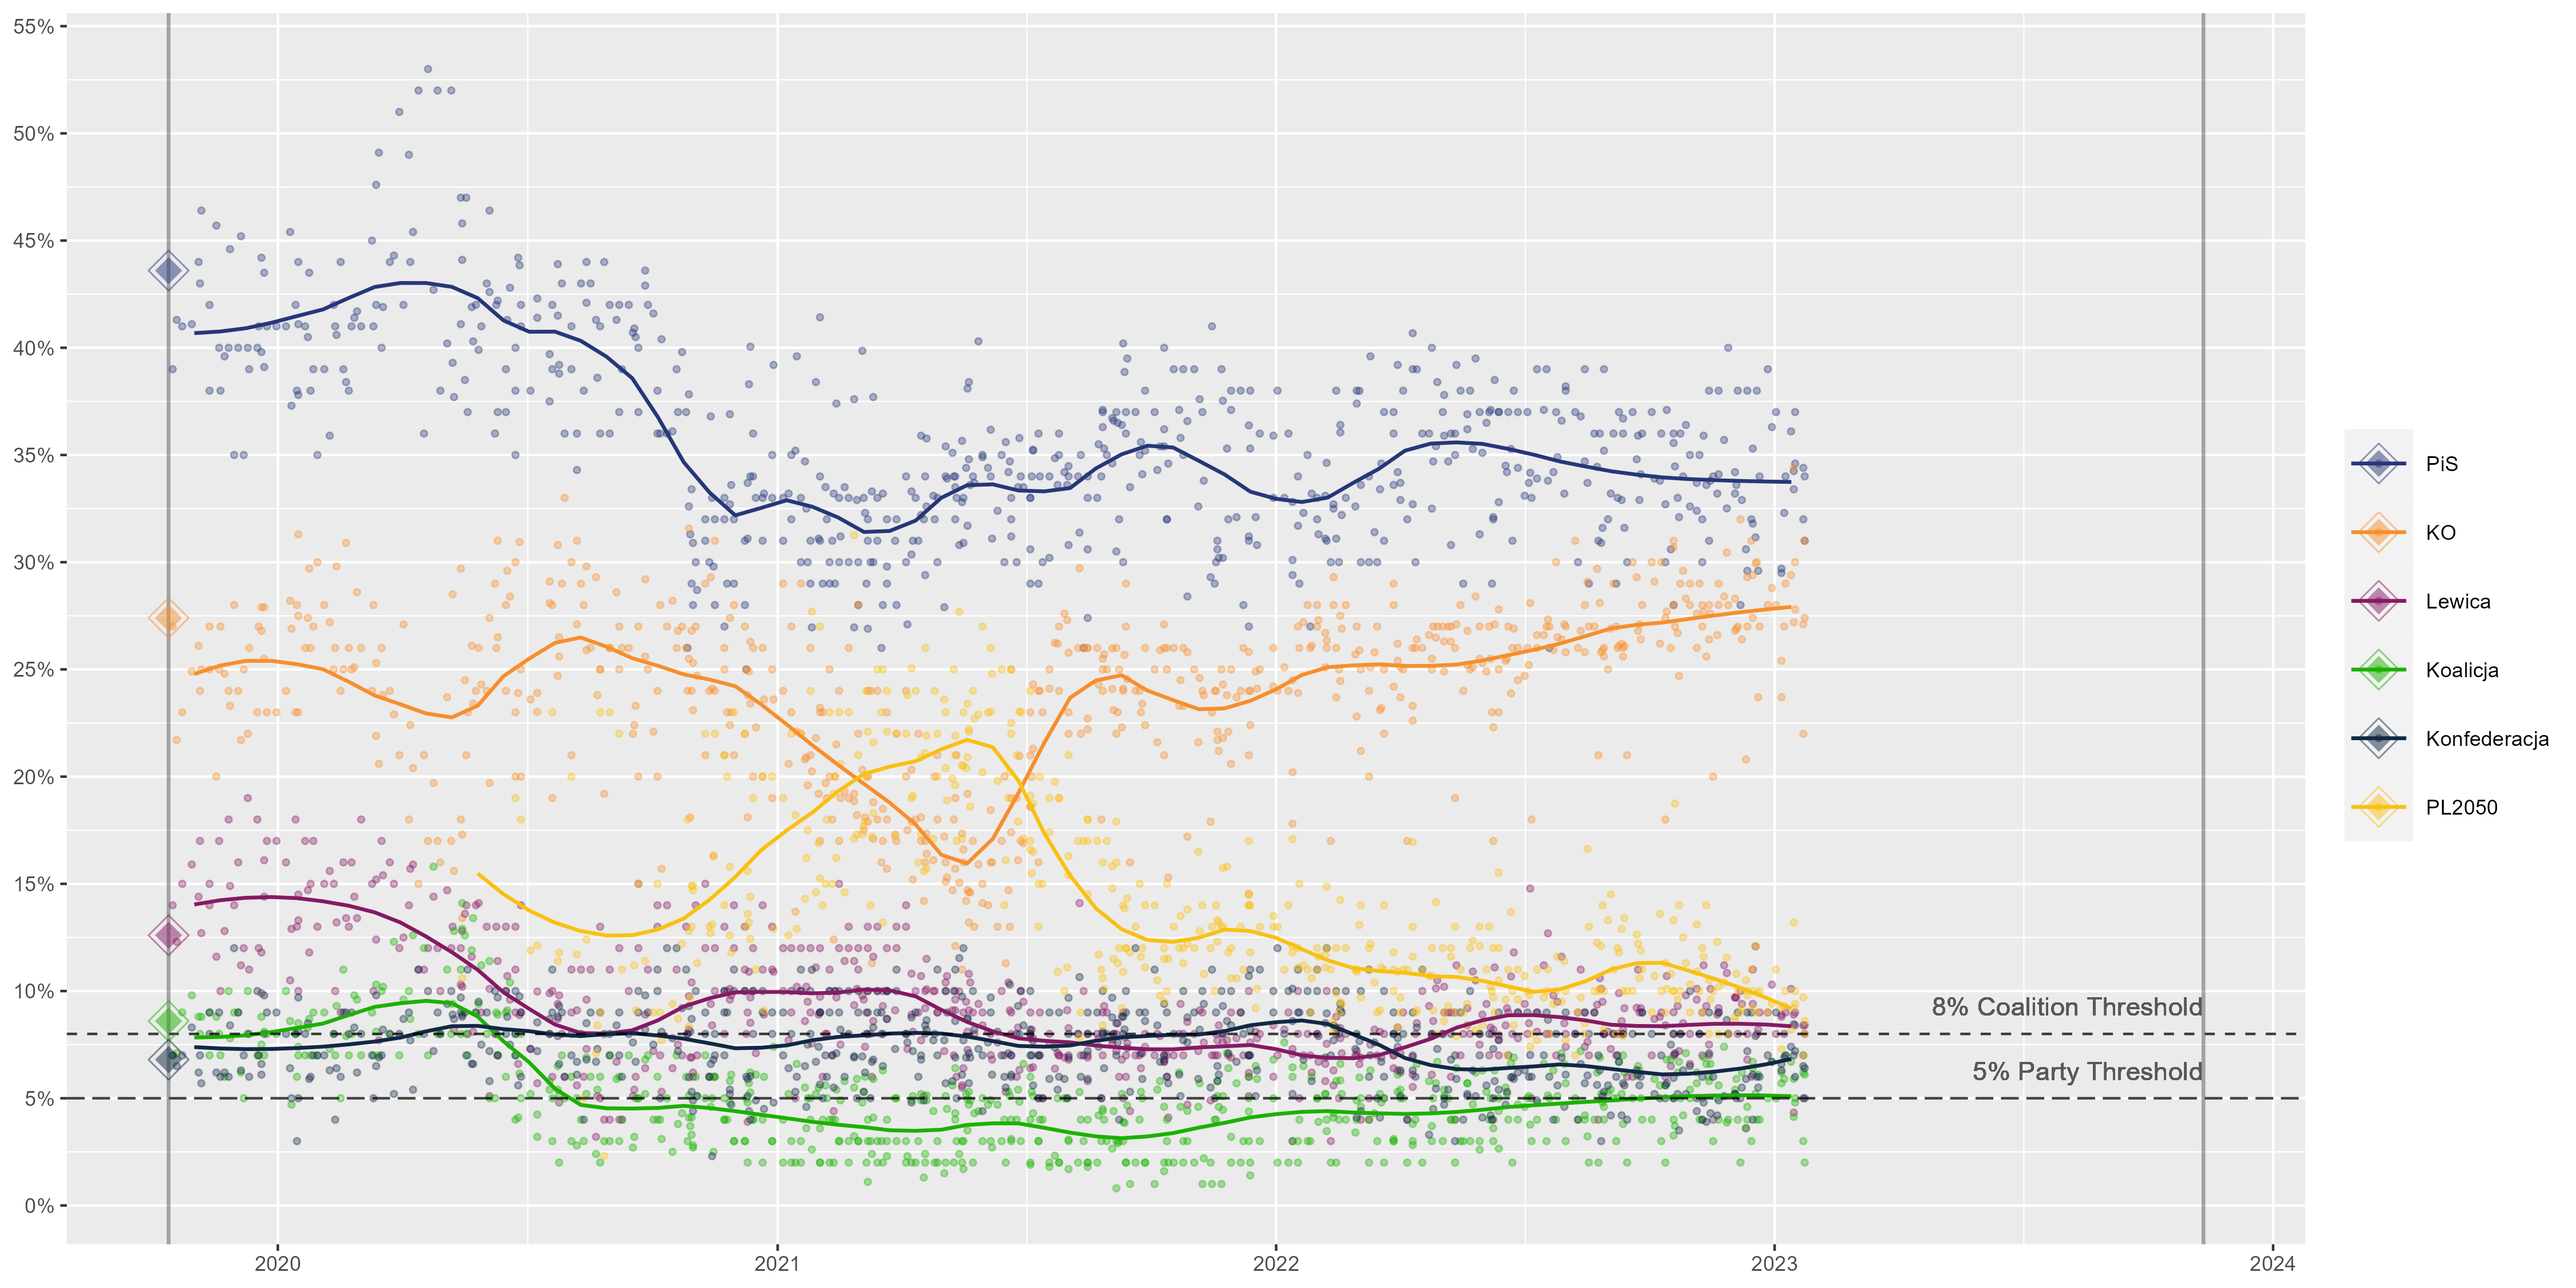
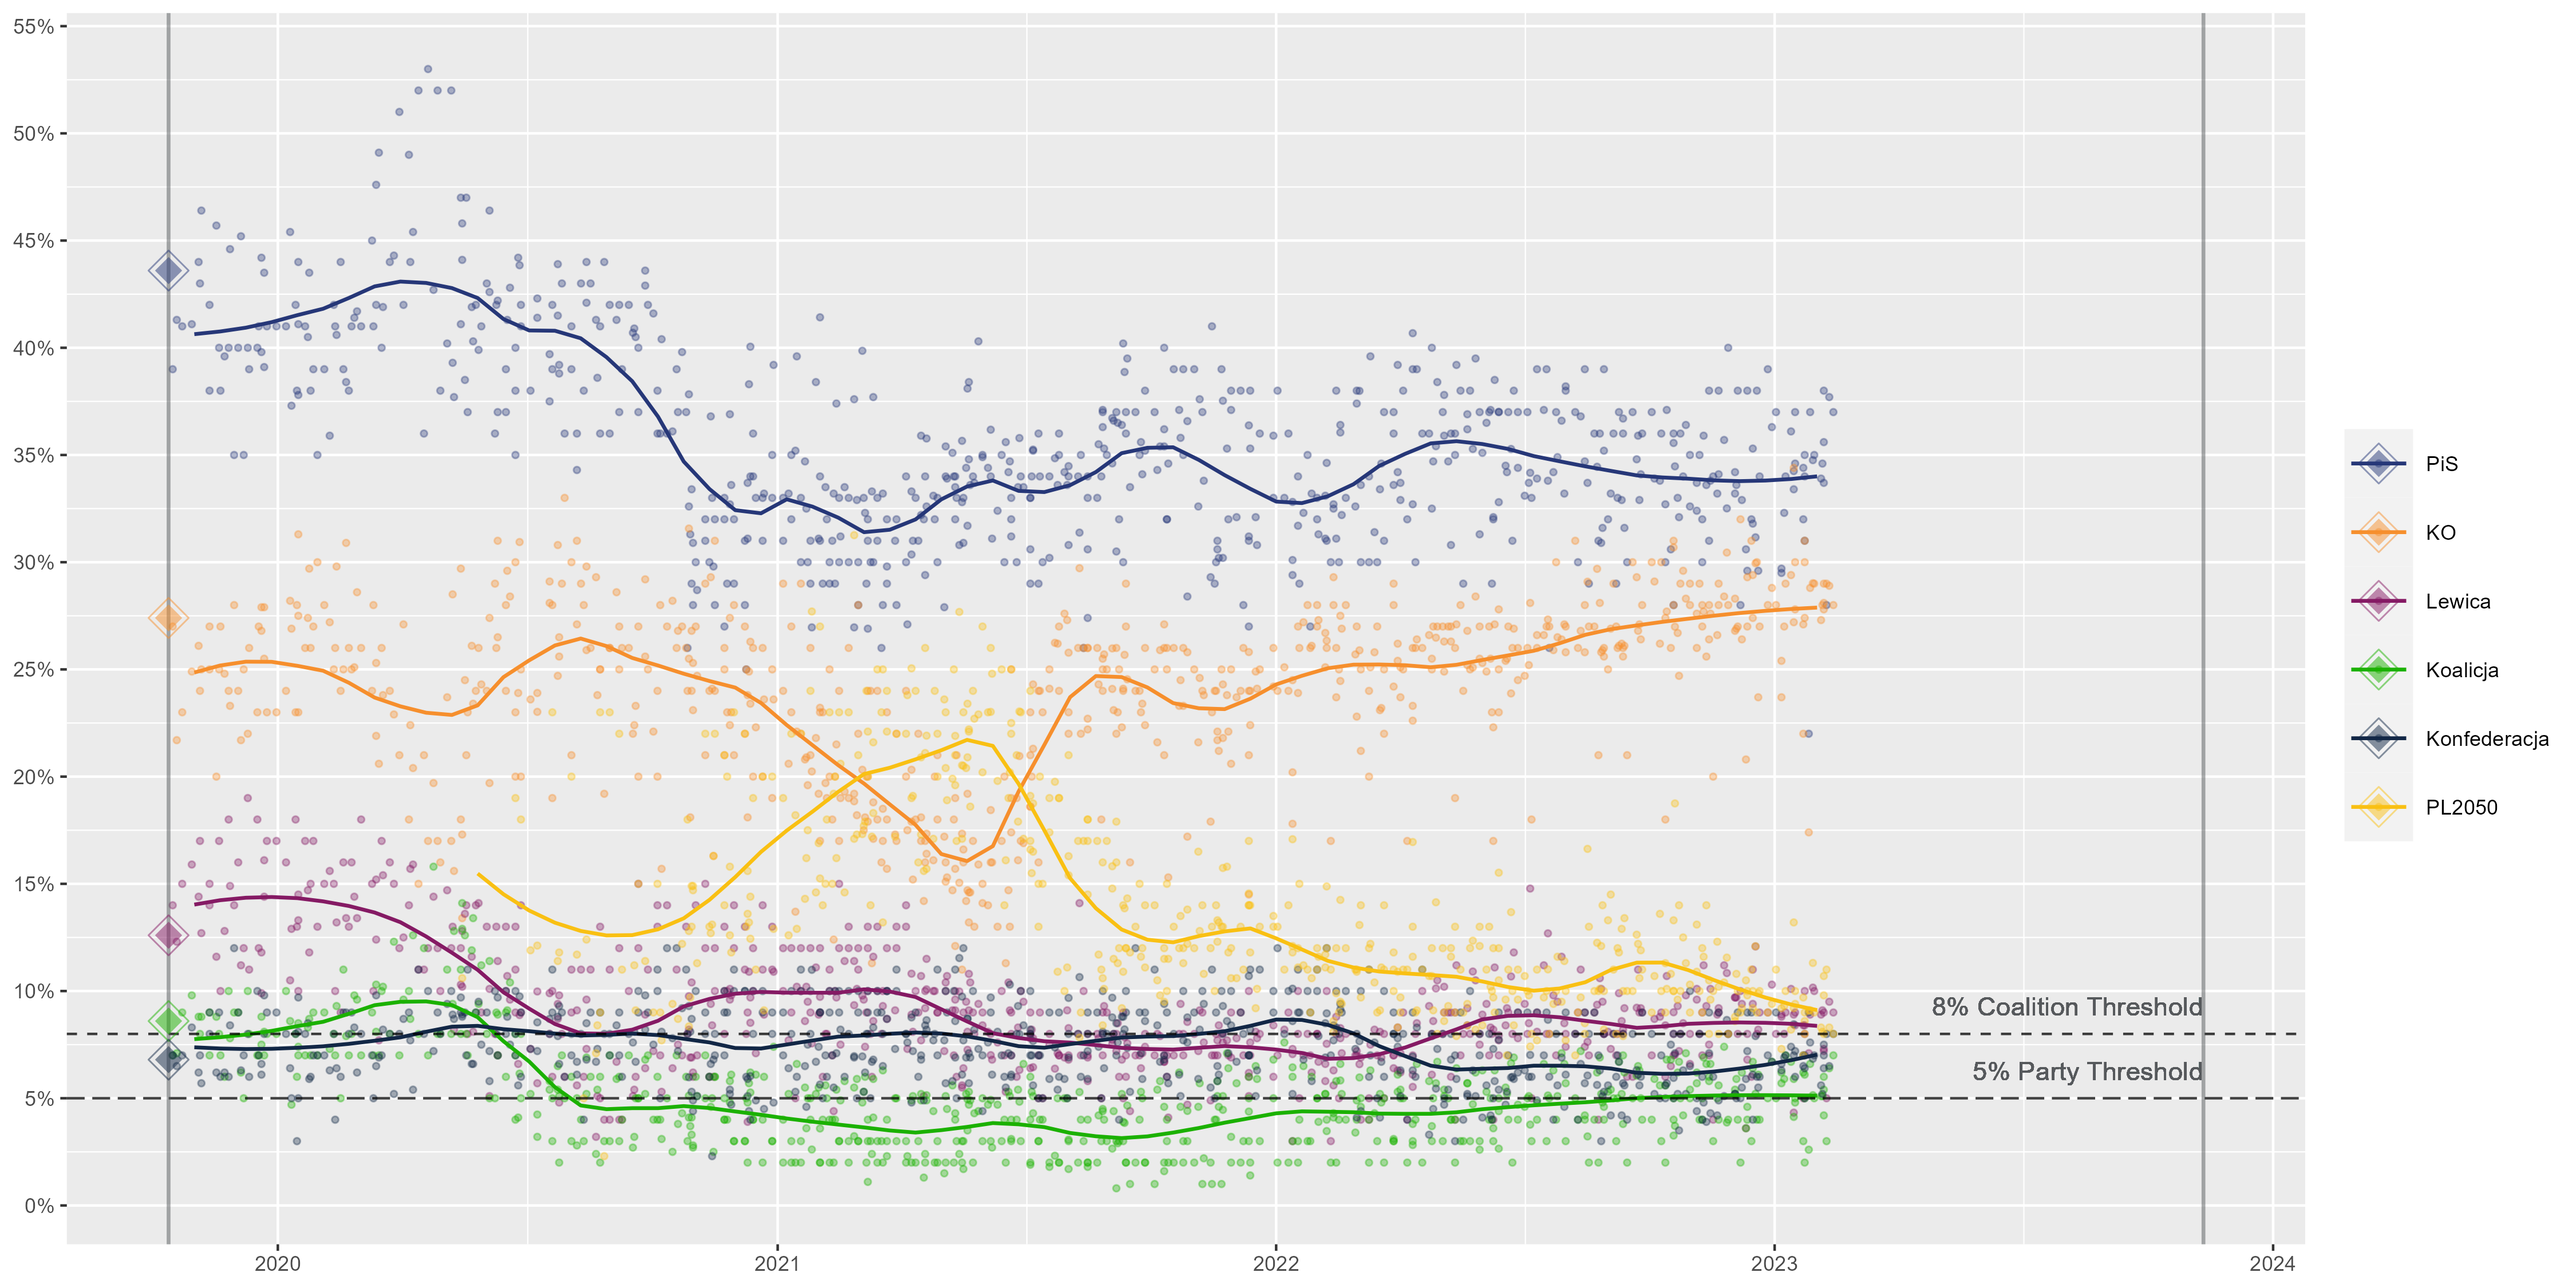
fixed again

diff --git a/Polish/Votes/data.py b/Polish/Votes/data.py
@@ -76,6 +76,9 @@ for z in parties:
   data21[z] = [x.replace('[u]','') for x in data21[z].astype(str)]
   data21[z] = [x.replace('[v]','') for x in data21[z].astype(str)]
   data21[z] = [x.replace('[w]','') for x in data21[z].astype(str)]
+  data21[z] = [x.replace('[j]','') for x in data21[z].astype(str)]
+  data21[z] = [x.replace('[n]','') for x in data21[z].astype(str)]
+  data21[z] = [x.replace('[s]','') for x in data21[z].astype(str)]
 
 
 # 2020
@@ -102,6 +105,7 @@ data20.Date = data20.Date.apply(lambda x: dateparser.parse(x))
 for z in parties:
   data20[z] = [x.replace('[ac]','') for x in data20[z].astype(str)]
   data20[z] = [x.replace('[ad]','') for x in data20[z].astype(str)]
+  data20[z] = [x.replace('[ae]','') for x in data20[z].astype(str)]
   data20[z] = [x.replace('–','0') for x in data20[z].astype(str)]
   data20[z] = [x.replace('-','0') for x in data20[z].astype(str)]
 data20[parties] = data20[parties].astype(float)

diff --git a/Polish/Seats/data.py b/Polish/Seats/data.py
@@ -10,7 +10,7 @@ soup = BeautifulSoup(response.text, 'html.parser')
 tables = soup.find_all('table',class_="wikitable")
 df=pd.read_html(str(tables))
 
-df7=pd.DataFrame(df[8])
+df7=pd.DataFrame(df[9])
 data22 = df7.drop(["Polling Firm/Link", "Sample Size", "Majority", "Kukiz'15"], axis=1)
 headers = ['Date', 'United Right', 'Civic Coalition', 'The Left', 'Polish Coalition', 'Confederation', 'Poland 2050', 'Others']
 parties = ['United Right', 'Civic Coalition', 'The Left', 'Polish Coalition', 'Confederation', 'Poland 2050', 'Others']
@@ -18,7 +18,7 @@ data22.columns = headers
 data22.drop(data22.tail(1).index,inplace=True)
 print(data22)
 
-df8=pd.DataFrame(df[9])
+df8=pd.DataFrame(df[10])
 data21 = df8.drop(["Polling Firm/Link", "Sample Size", "Majority"], axis=1)
 data21.columns = headers
 data21.drop(data21.index[[-1,-3]],inplace=True)
